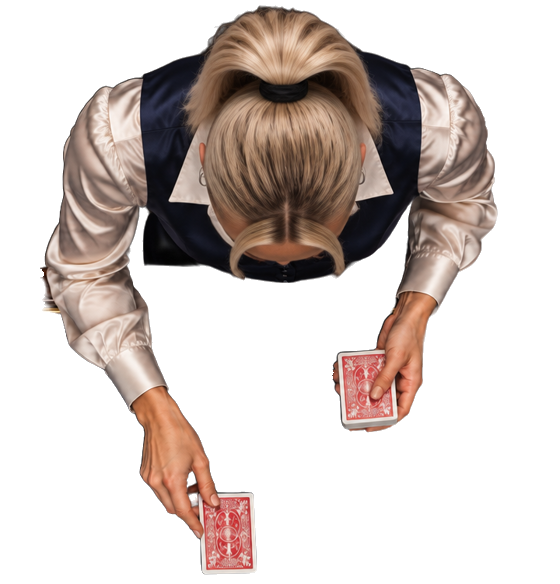
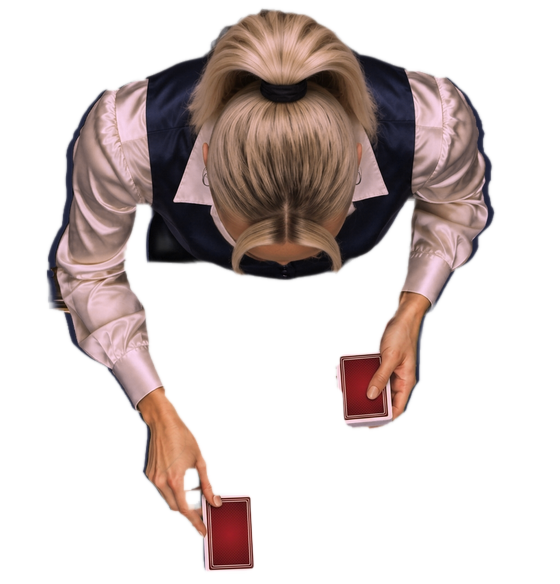
Kurpiye: elindeki kartlar masa kartlarıyla aynı, dağıtırken sallanma kalktı

Changed region(s): [[0.0607, 0.0, 0.9107, 0.9863]]

diff --git a/css/stil.css b/css/stil.css
@@ -604,8 +604,6 @@ button.dk-durum { cursor: pointer; font: inherit; font-size: 11px; }
 .kr-tepe img:not([src]) { visibility: hidden; }
 .kr-girinti { position: absolute; left: 50%; top: calc(var(--kt-derin) * -1); width: calc(var(--kt-gen) * .88); height: calc(var(--kt-derin) * 2); transform: translateX(-50%); border-radius: 50%;
   background: radial-gradient(ellipse at 50% 35%, #1e1813, #07080a 78%); box-shadow: 0 0 0 9px var(--ahsap, #5a3418), 0 0 0 12px #0009, 0 8px 18px #000a, inset 0 -12px 26px #000d; }
-.kr-tepe[data-ruh="dagit"] img { animation: kt-dagit .8s ease-in-out infinite; }
-@keyframes kt-dagit { 50% { transform: translateY(6px); } }
 .kr-tepe.kr-cikis img { opacity: 0; transform: translateY(-50px); }
 .kr-tepe.kr-giris img { animation: kt-gir .7s ease-out; }
 @keyframes kt-gir { from { opacity: 0; transform: translateY(-50px); } }

diff --git a/sw.js b/sw.js
@@ -1,6 +1,6 @@
 // Offline önbellek: ilk açılışta tüm dosyalar cihaza kaydedilir.
 // Dosya değişince SURUM artırılır.
-const SURUM = 'poker-v89';
+const SURUM = 'poker-v90';
 const DOSYALAR = [
   './', 'index.html', 'css/stil.css', 'manifest.webmanifest',
   'js/uygulama.js', 'js/arayuz.js', 'js/masa.js', 'js/oyuncu.js', 'js/motor.js', 'js/kart.js', 'js/ses.js', 'js/fis.js', 'js/novo.js', 'js/novo_masa.js', 'js/krupiye.js', 'js/havai.js', 'js/konus.js',
